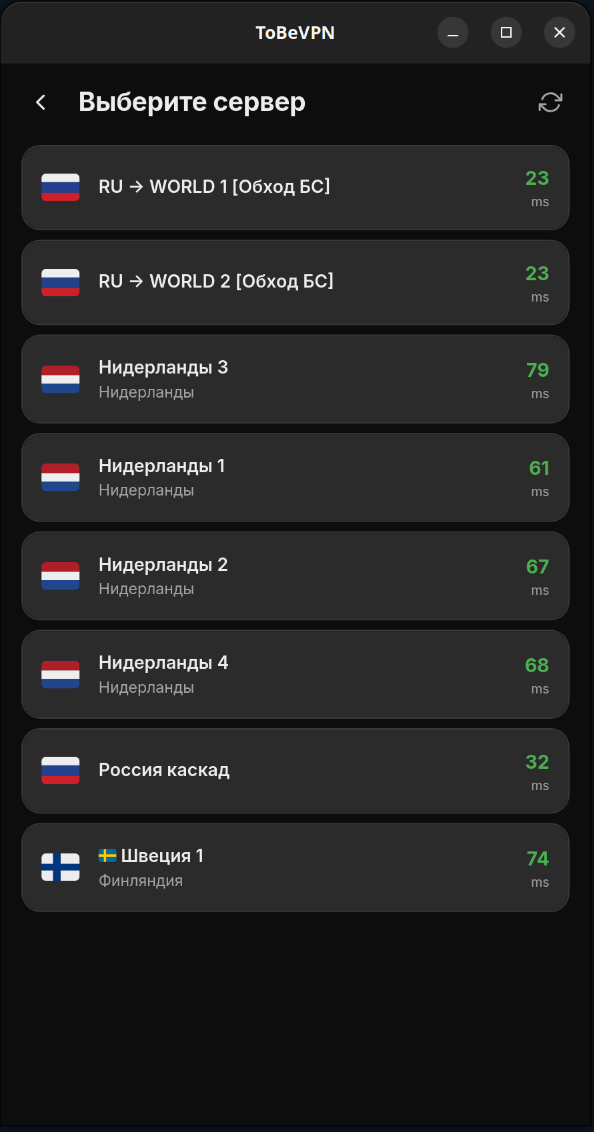
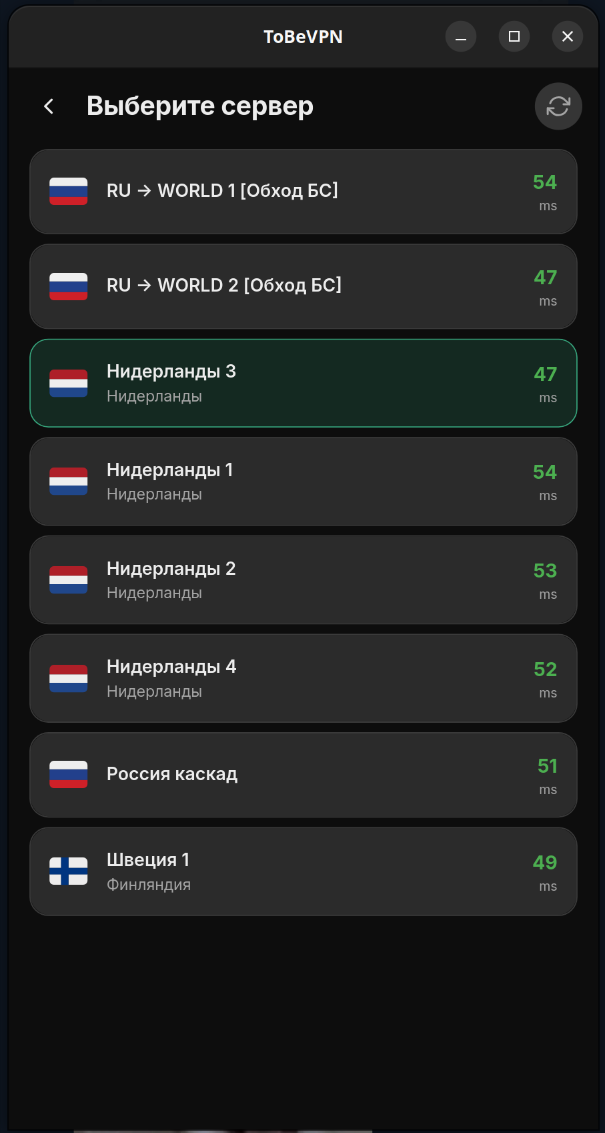
v1.0.21: fix server selection highlight

diff --git a/src/screens/ServersScreen.tsx b/src/screens/ServersScreen.tsx
@@ -7,6 +7,7 @@ import {
   serverDisplayName,
 } from "../components/serverDisplay";
 import { fetchVpnServers, syncSubscription, type VpnServer } from "../session/auth";
+import { isSameServerSelection } from "../session/serverSelection";
 import Spinner from "../components/Spinner";
 import type { SelectedServer } from "../App";
 import "./ServersScreen.css";
@@ -34,9 +35,11 @@ function pingColor(ping: number): string {
 export default function ServersScreen({
   onBack,
   onSelect,
+  selectedServer,
 }: {
   onBack: () => void;
   onSelect: (server: SelectedServer) => void;
+  selectedServer: SelectedServer | null;
 }) {
   const [servers, setServers] = useState<ServerItem[]>([]);
   const [loading, setLoading] = useState(true);
@@ -165,59 +168,69 @@ export default function ServersScreen({
         </div>
       ) : (
         <div className="servers-list">
-          {servers.map((server) => (
-            <div
-              key={server.id}
-              className={`server-item ${!server.isOnline ? "server-item--offline" : ""}`}
-              onClick={() => {
-                if (server.isOnline) {
-                  onSelect({
-                    name: server.name,
-                    country: server.country,
-                    address: server.address,
-                    port: server.port,
-                    uuid: server.uuid,
-                    flow: server.flow,
-                    security: server.security,
-                    sni: server.sni,
-                    fingerprint: server.fingerprint,
-                    public_key: server.public_key,
-                    short_id: server.short_id,
-                    network: server.network,
-                    path: server.path,
-                    mode: server.mode,
-                    spx: server.spx,
-                  });
-                }
-              }}
-            >
-              <span className="server-item__flag">
-                {countryFlagForUi(server.country, server.name)}
-              </span>
-              <div className="server-item__info">
-                <div className="server-item__name">
-                  {serverDisplayName(server.name, server.country)}
+          {servers.map((server) => {
+            const selected = isSameServerSelection(selectedServer, server);
+            const className = [
+              "server-item",
+              selected ? "server-item--selected" : "",
+              !server.isOnline ? "server-item--offline" : "",
+            ].filter(Boolean).join(" ");
+
+            return (
+              <div
+                key={server.id}
+                className={className}
+                aria-current={selected ? "true" : undefined}
+                onClick={() => {
+                  if (server.isOnline) {
+                    onSelect({
+                      name: server.name,
+                      country: server.country,
+                      address: server.address,
+                      port: server.port,
+                      uuid: server.uuid,
+                      flow: server.flow,
+                      security: server.security,
+                      sni: server.sni,
+                      fingerprint: server.fingerprint,
+                      public_key: server.public_key,
+                      short_id: server.short_id,
+                      network: server.network,
+                      path: server.path,
+                      mode: server.mode,
+                      spx: server.spx,
+                    });
+                  }
+                }}
+              >
+                <span className="server-item__flag">
+                  {countryFlagForUi(server.country, server.name)}
+                </span>
+                <div className="server-item__info">
+                  <div className="server-item__name">
+                    {serverDisplayName(server.name, server.country)}
+                  </div>
+                  <div className={`server-item__country ${!server.isOnline ? "server-item__country--red" : ""}`}>
+                    {server.isOnline
+                      ? countryName(serverCountryCodeForUi(server.country, server.name))
+                      : t("server_unavailable")}
+                  </div>
                 </div>
-                <div className={`server-item__country ${!server.isOnline ? "server-item__country--red" : ""}`}>
-                  {server.isOnline
-                    ? countryName(serverCountryCodeForUi(server.country, server.name))
-                    : t("server_unavailable")}
-                </div>
+                {!server.isOnline ? (
+                  <span className="server-item__offline-badge">{t("server_offline")}</span>
+                ) : server.ping < 0 ? (
+                  <span className="server-item__ping-unavailable">{t("server_unavailable")}</span>
+                ) : server.ping > 0 ? (
+                  <div className="server-item__ping">
+                    <span className="server-item__ping-value" style={{ color: pingColor(server.ping) }}>
+                      {server.ping}
+                    </span>
+                    <span className="server-item__ping-unit">ms</span>
+                  </div>
+                ) : null}
               </div>
-              {!server.isOnline ? (
-                <span className="server-item__offline-badge">{t("server_offline")}</span>
-              ) : server.ping < 0 ? (
-                <span className="server-item__ping-unavailable">{t("server_unavailable")}</span>
-              ) : server.ping > 0 ? (
-                <div className="server-item__ping">
-                  <span className="server-item__ping-value" style={{ color: pingColor(server.ping) }}>
-                    {server.ping}
-                  </span>
-                  <span className="server-item__ping-unit">ms</span>
-                </div>
-              ) : null}
-            </div>
-          ))}
+            );
+          })}
         </div>
       )}
     </div>

diff --git a/src/components/serverDisplay.ts b/src/components/serverDisplay.ts
@@ -1,6 +1,7 @@
 const GLOBE_FLAG = "\u{1F310}";
 const REGIONAL_INDICATOR_START = 0x1f1e6;
 const REGIONAL_INDICATOR_END = 0x1f1ff;
+const EDGE_DECORATION = new Set(["-", "|", "/", "\\", ":"]);
 const LETTER_OR_NUMBER = /[\p{L}\p{N}]/u;
 const WHITESPACE = /\s/u;
 const DECORATIVE = /[\p{S}\p{M}\p{Cf}]/u;
@@ -33,18 +34,15 @@ export function serverCountryCodeForUi(
 
 export function serverDisplayName(
   name: string,
-  countryCode: string | null | undefined,
+  _countryCode: string | null | undefined,
 ): string {
   const trimmedName = name.trim();
   if (!trimmedName) return name;
 
   const prefix = parseLeadingPrefix(trimmedName);
-  const countryFlag = countryFlagOrNull(countryCode?.trim().toUpperCase() ?? "");
-  if (countryFlag && prefix.flag && prefix.flag !== countryFlag) {
-    return trimmedName;
-  }
-
-  const cleanedName = trimmedName.slice(prefix.endIndex).trimStart();
+  const cleanedName = trimDecorativeEdges(
+    removeFlagEmojis(trimmedName.slice(prefix.endIndex)),
+  );
   return cleanedName || trimmedName;
 }
 
@@ -118,6 +116,49 @@ function countryCodeFromFlag(flag: string | null): string | null {
     second - REGIONAL_INDICATOR_START + 65,
   );
   return `${firstChar}${secondChar}`;
+}
+
+function removeFlagEmojis(text: string): string {
+  let output = "";
+  let index = 0;
+
+  while (index < text.length) {
+    const codePoint = text.codePointAt(index);
+    if (codePoint === undefined) break;
+
+    const symbol = String.fromCodePoint(codePoint);
+    const nextIndex = index + symbol.length;
+    if (isRegionalIndicator(codePoint) && nextIndex < text.length) {
+      const nextCodePoint = text.codePointAt(nextIndex);
+      if (
+        nextCodePoint !== undefined &&
+        isRegionalIndicator(nextCodePoint)
+      ) {
+        index = nextIndex + String.fromCodePoint(nextCodePoint).length;
+        continue;
+      }
+    }
+
+    output += symbol;
+    index = nextIndex;
+  }
+
+  return output;
+}
+
+function trimDecorativeEdges(text: string): string {
+  const trimmedText = text.trim();
+  let start = 0;
+  let end = trimmedText.length;
+
+  while (start < end && EDGE_DECORATION.has(trimmedText[start])) {
+    start += 1;
+  }
+  while (end > start && EDGE_DECORATION.has(trimmedText[end - 1])) {
+    end -= 1;
+  }
+
+  return trimmedText.slice(start, end).trim();
 }
 
 function isRegionalIndicator(codePoint: number): boolean {

diff --git a/src/App.tsx b/src/App.tsx
@@ -14,6 +14,7 @@ import AppErrorBoundary from "./components/AppErrorBoundary";
 import UpdateBanner from "./components/UpdateBanner";
 import { isPaired, useSession } from "./session/store";
 import { startDeviceLinkPolling, stopDeviceLinkPolling } from "./session/auth";
+import { isSameServerSelection } from "./session/serverSelection";
 import { connectVpn, getVpnRuntime } from "./session/vpnState";
 import { clearLastServer, loadLastServer, saveLastServer } from "./session/lastServer";
 import "./App.css";
@@ -269,6 +270,7 @@ export default function App() {
         return (
           <ServersScreen
             onBack={() => goBack("home")}
+            selectedServer={selectedServer}
             onSelect={(server) => {
               const prev = selectedServer;
               setSelectedServer(server);
@@ -277,11 +279,7 @@ export default function App() {
               // Live-switch: if a session is already up (or in flight) and the
               // user picked a different server, reconnect to the new one. The
               // backend's start() tears down the previous session itself.
-              const sameAsPrev =
-                prev &&
-                prev.address === server.address &&
-                prev.port === server.port &&
-                prev.uuid === server.uuid;
+              const sameAsPrev = isSameServerSelection(prev, server);
               // Skip the live-switch entirely when the user picked the
               // panel's "subscription expired" sentinel. ServersScreen
               // already filters it out of the list, but a stale cache

diff --git a/src/screens/HomeScreen.tsx b/src/screens/HomeScreen.tsx
@@ -9,6 +9,7 @@ import {
   serverCountryCodeForUi,
   serverDisplayName,
 } from "../components/serverDisplay";
+import { isSameServerSelection } from "../session/serverSelection";
 import {
   fetchVpnServers,
   startPendingPurchaseRefreshIfNeeded,
@@ -121,15 +122,6 @@ function toSelectedServer(server: VpnServer): SelectedServer {
   };
 }
 
-function sameServer(a: SelectedServer, b: VpnServer): boolean {
-  return (
-    a.address === b.address &&
-    a.port === b.port &&
-    a.uuid === b.uuid &&
-    a.sni === b.sni
-  );
-}
-
 export default function HomeScreen({
   onLogout: _onLogout,
   onSettings,
@@ -204,13 +196,13 @@ export default function HomeScreen({
     await syncSubscription({ force: true }).catch(() => {});
     const freshServers = await fetchVpnServers().catch(() => []);
     const fresh =
-      freshServers.find((server) => sameServer(selectedServer, server)) ??
+      freshServers.find((server) => isSameServerSelection(selectedServer, server)) ??
       freshServers[0] ??
       null;
     if (!fresh) return null;
 
     const resolved = toSelectedServer(fresh);
-    if (!sameServer(selectedServer, fresh)) {
+    if (!isSameServerSelection(selectedServer, fresh)) {
       onServerChange(resolved);
     }
     return resolved;

diff --git a/src/session/serverSelection.ts b/src/session/serverSelection.ts
@@ -1,0 +1,42 @@
+import { serverDisplayName } from "../components/serverDisplay";
+
+export interface ServerSelectionIdentity {
+  id?: string;
+  name: string;
+  country?: string | null;
+  address: string;
+  port: number;
+  sni?: string | null;
+}
+
+export function stableServerId(server: ServerSelectionIdentity): string {
+  return `${server.address}:${server.port}:${server.sni ?? ""}`;
+}
+
+export function serverSelectionKey(server: ServerSelectionIdentity): string {
+  return serverDisplayName(server.name, server.country)
+    .trim()
+    .replace(/\s+/g, " ")
+    .toLocaleLowerCase("en-US");
+}
+
+export function isSameServerSelection(
+  a: ServerSelectionIdentity | null | undefined,
+  b: ServerSelectionIdentity | null | undefined,
+): boolean {
+  if (!a || !b) return false;
+
+  const aStable = stableServerId(a);
+  const bStable = stableServerId(b);
+  const stableMatches =
+    aStable === bStable ||
+    a.id === bStable ||
+    b.id === aStable ||
+    (Boolean(a.id) && a.id === b.id);
+
+  if (stableMatches) return true;
+
+  const aKey = serverSelectionKey(a);
+  const bKey = serverSelectionKey(b);
+  return Boolean(aKey) && aKey === bKey;
+}

diff --git a/src/screens/ServersScreen.css b/src/screens/ServersScreen.css
@@ -77,11 +77,21 @@
   padding: 16px;
   margin-bottom: 8px;
   cursor: pointer;
-  transition: background 120ms;
+  transition: background 120ms, border-color 120ms, box-shadow 120ms;
 }
 
 .server-item:hover {
   background: var(--surface-2);
+}
+
+.server-item--selected {
+  background: rgba(67, 211, 158, 0.14);
+  border-color: rgba(67, 211, 158, 0.72);
+}
+
+.server-item--selected:hover {
+  background: rgba(67, 211, 158, 0.18);
+  border-color: rgba(67, 211, 158, 0.82);
 }
 
 .server-item--offline {

diff --git a/src/session/auth.ts b/src/session/auth.ts
@@ -837,7 +837,7 @@ function parseVlessUrl(url: string): VpnServer | null {
     const sni = p.get("sni") ?? "";
 
     return {
-      id: `${address}:${port}:${sni || name}`,
+      id: `${address}:${port}:${sni}`,
       name,
       address,
       port,
